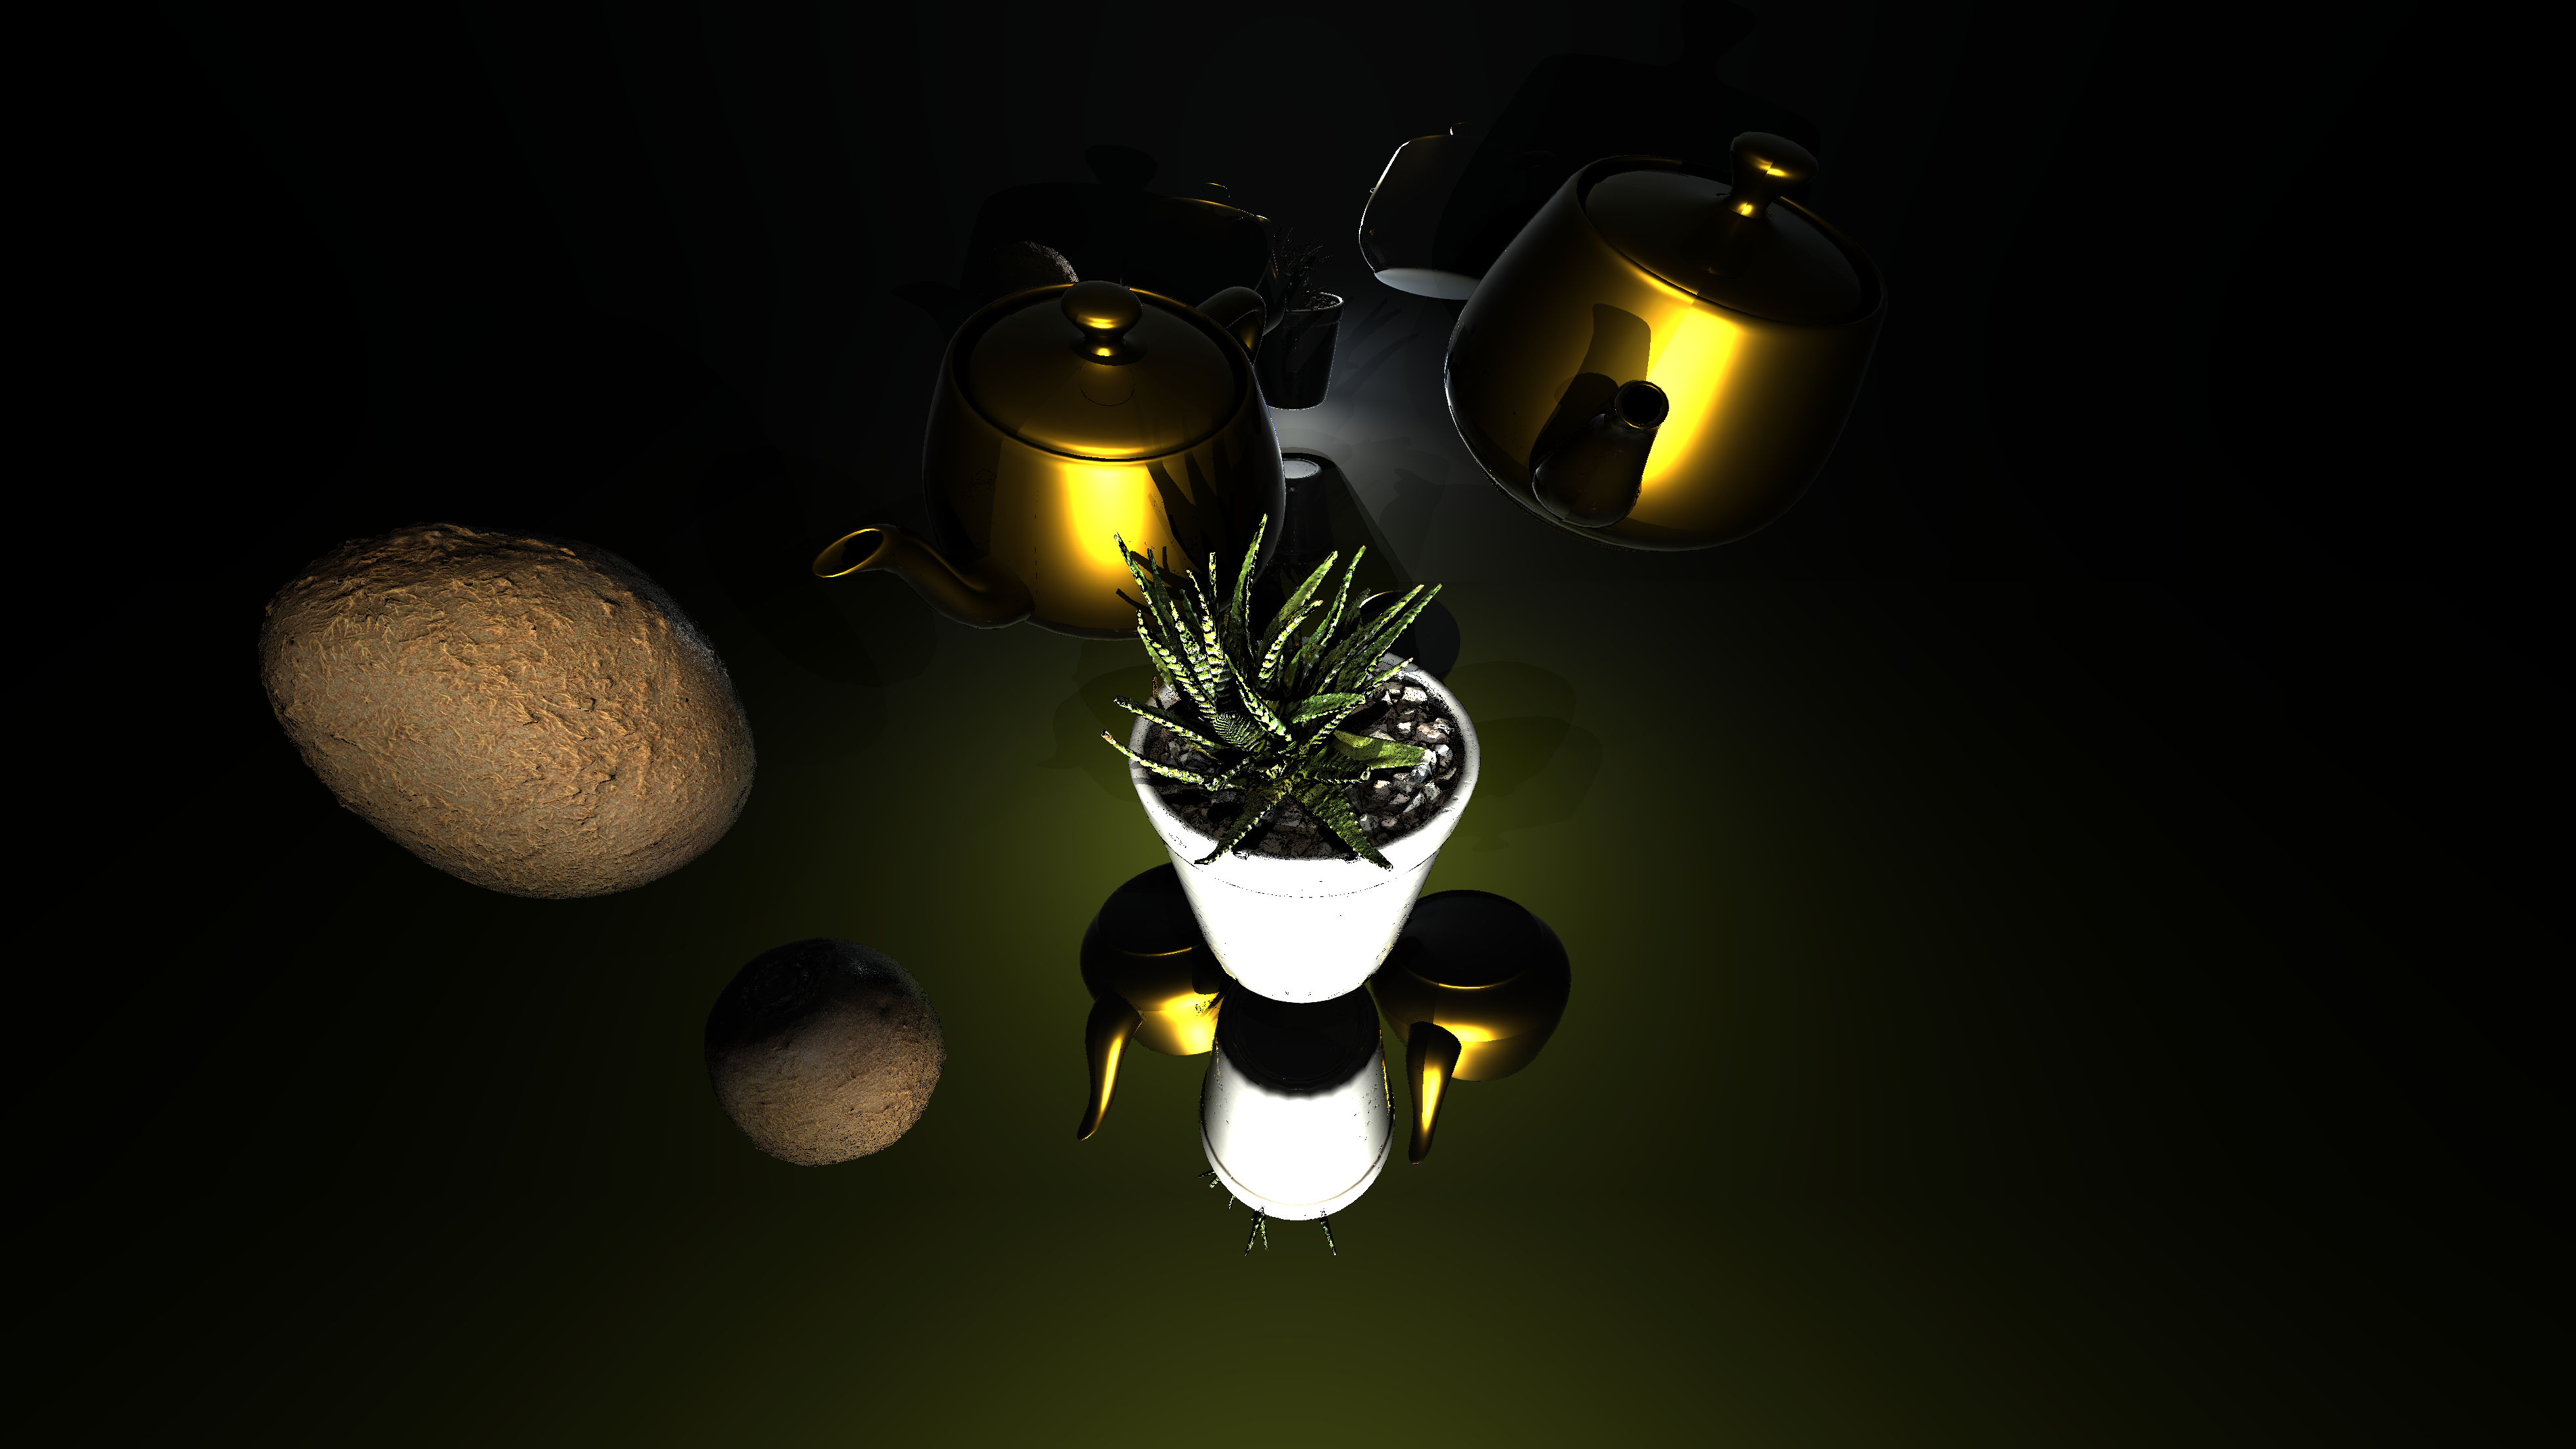
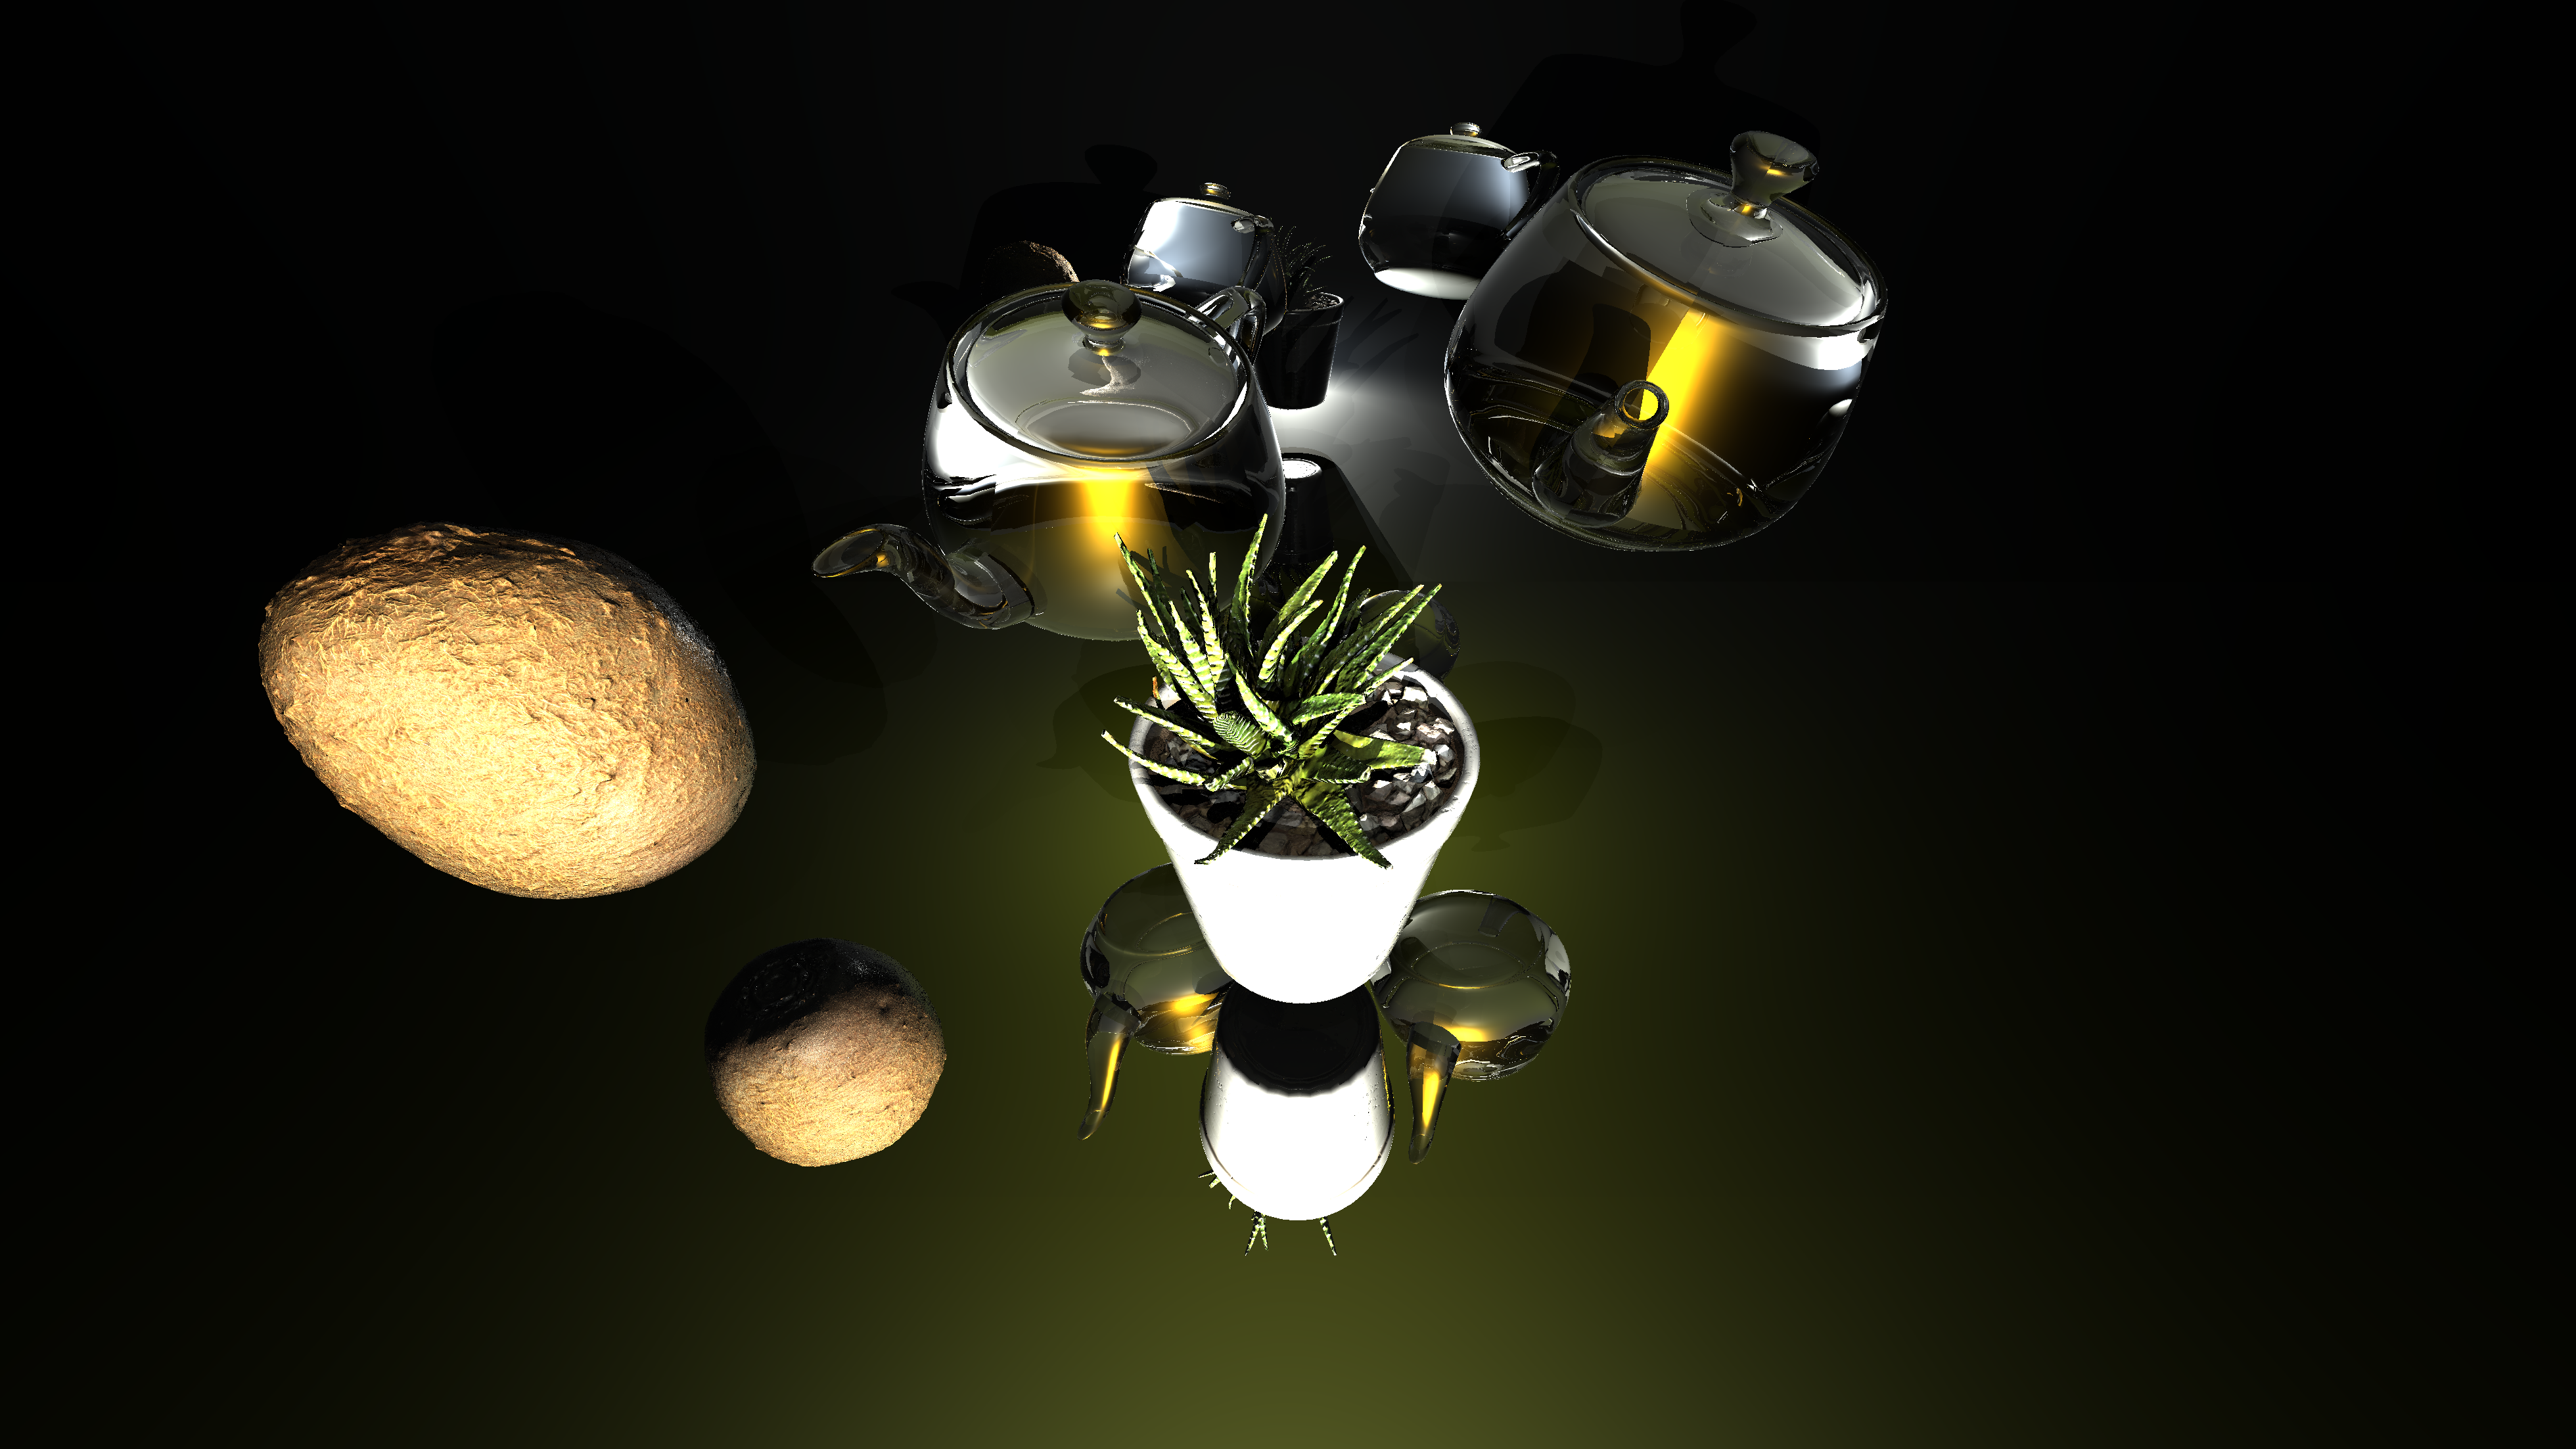
Raytracer v0.9.1 : Fix. Clamp for values in Cook-Torrence and total internal reflection

diff --git a/src/main/java/com/github/donovan_dead/Physics/LightSource.java b/src/main/java/com/github/donovan_dead/Physics/LightSource.java
@@ -65,7 +65,6 @@ public class LightSource extends BaseLightSource {
         Vector3 halfVec = vecToLight.add(viewDir).normalize();
 
         // Distribution of microfacets function
-        double D = 0;
         double roughness2;
         
         if(material.getRoughnessTexture() != null){
@@ -77,7 +76,8 @@ public class LightSource extends BaseLightSource {
         }
 
         // D(h) = a^2 / (Pi * (NdotH^2 * (a^2- 1) + 1)^2 )
-        D =  roughness2 / ( Math.PI * Math.pow(( Math.pow(Utils.dotProduct(normal, halfVec), 2) * (roughness2 - 1) + 1), 2)  ) ; 
+        double NdotH_d = Utils.dotProduct(normal, halfVec);
+        double D = roughness2 / (Math.PI * Math.pow(NdotH_d * NdotH_d * (roughness2 - 1) + 1, 2) + 1e-7);
 
         double IoRCoeff2 = Math.pow((1.0 - material.getNi()) / (1.0 + material.getNi()), 2);
         double metallic = material.getMetallicTexture() != null
@@ -102,12 +102,17 @@ public class LightSource extends BaseLightSource {
             F0.Z() + (1 - F0.Z()) * oneMinusCos5
         );
 
-        // I'm using the simplified form of the formula for de geometric shadowing/masking function in order to save time from the square roots
+        // I'm using the simplified form of the formula for the geometric shadowing/masking function in order to save time from the square roots
         // G(n, v, l) = min( 1, 2 * (NdotH) * (NdotV) / VdotH,  2 * (NdotH) * (NdotL) / VdotH )
+        // Clamp all dot products to >= 0: perturbed normals (from normal maps) can produce negative
+        // NdotV or NdotL, making G negative and spec a negative number that corrupts color channels.
         double safeHdotV = Math.max(HdotV, 1e-6);
+        double NdotH_g = Math.max(0, Utils.dotProduct(normal, halfVec));
+        double NdotV_g = Math.max(0, Utils.dotProduct(normal, viewDir));
+        double NdotL_g = resultDot;
         double G = Math.min(1, Math.min(
-            (2 * Utils.dotProduct(normal, halfVec) * Utils.dotProduct(normal, viewDir)) / safeHdotV,
-            (2 * Utils.dotProduct(normal, halfVec) * Utils.dotProduct(normal, vecToLight)) / safeHdotV
+            (2 * NdotH_g * NdotV_g) / safeHdotV,
+            (2 * NdotH_g * NdotL_g) / safeHdotV
         ));
 
 

diff --git a/src/main/java/com/github/donovan_dead/Raytracer/Raytracer.java b/src/main/java/com/github/donovan_dead/Raytracer/Raytracer.java
@@ -125,19 +125,24 @@ public class Raytracer {
             double diffuseCoeficient = (1 - reflectionCoeficient) * i.material().getOpacity() * residualEnergy;
             double refractionCoeficient = (1 - reflectionCoeficient) * (1 - i.material().getOpacity()) * residualEnergy;
 
+            double nextIor = hitFromInside ? IOR_OF_AIR : i.material().getNi();
+            double discriminant = 1.0 - Math.pow(medium_ior / nextIor, 2) * (1.0 - Math.pow(shadowInNormal, 2));
+
+            // On total internal reflection the refraction energy can't escape — redirect it to reflection
+            double effectiveReflectionCoef = (discriminant <= 0)
+                ? reflectionCoeficient + refractionCoeficient
+                : reflectionCoeficient;
+
             Vector3 reflectionColor = Vector3.Zero();
-            if (reflectionCoeficient != 0 )
+            if (effectiveReflectionCoef != 0)
                  reflectionColor = reflectionColor.add(
                     launchRay(
                         new Ray(
                             ray.getPos(i.t()).add(hitNormal.scale(EPS)),
                             ray.direction().subtract(hitNormal.scale(-2 * shadowInNormal)).normalize()
                         ),
-                        farplane, reflectionCoeficient, depth + 1, medium_ior)
+                        farplane, effectiveReflectionCoef, depth + 1, medium_ior)
                     );
-
-            double nextIor = hitFromInside ? IOR_OF_AIR : i.material().getNi();
-            double discriminant = 1.0 - Math.pow(medium_ior / nextIor, 2) * (1.0 - Math.pow(shadowInNormal, 2));
 
             Vector3 refractionColor = Vector3.Zero();
             if(discriminant > 0)

diff --git a/src/main/java/com/github/donovan_dead/Physics/SpotLight.java b/src/main/java/com/github/donovan_dead/Physics/SpotLight.java
@@ -79,7 +79,7 @@ public class SpotLight extends BaseLightSource {
         }
 
         double NdotH = Utils.dotProduct(normal, halfVec);
-        double D = roughness2 / (Math.PI * Math.pow(NdotH * NdotH * (roughness2 - 1) + 1, 2));
+        double D = roughness2 / (Math.PI * Math.pow(NdotH * NdotH * (roughness2 - 1) + 1, 2) + 1e-7);
 
         double IoRCoeff2 = Math.pow((1.0 - material.getNi()) / (1.0 + material.getNi()), 2);
         double metallic = material.getMetallicTexture() != null
@@ -101,9 +101,12 @@ public class SpotLight extends BaseLightSource {
         );
 
         double safeHdotV = Math.max(HdotV, 1e-6);
+        double NdotH_g = Math.max(0, NdotH);
+        double NdotV_g = Math.max(0, Utils.dotProduct(normal, viewDir));
+        double NdotL_g = NdotL;
         double G = Math.min(1, Math.min(
-            (2 * NdotH * Utils.dotProduct(normal, viewDir)) / safeHdotV,
-            (2 * NdotH * Utils.dotProduct(normal, vecToLight)) / safeHdotV
+            (2 * NdotH_g * NdotV_g) / safeHdotV,
+            (2 * NdotH_g * NdotL_g) / safeHdotV
         ));
 
         double NdotV = Math.max(0, Utils.dotProduct(normal, viewDir));

diff --git a/src/main/java/com/github/donovan_dead/Main.java b/src/main/java/com/github/donovan_dead/Main.java
@@ -166,9 +166,9 @@ public class Main {
             new Vector3(0, 4, 25),
             new Vector3(0, 0, -1),
             new RGBColor(255, 255, 240),
-            6000,
-            Math.toRadians(25),
-            Math.toRadians(45)
+            9000,
+            Math.toRadians(45),
+            Math.toRadians(85)
         ));
 
         Raytracer raytracer = new Raytracer(cam, scene);